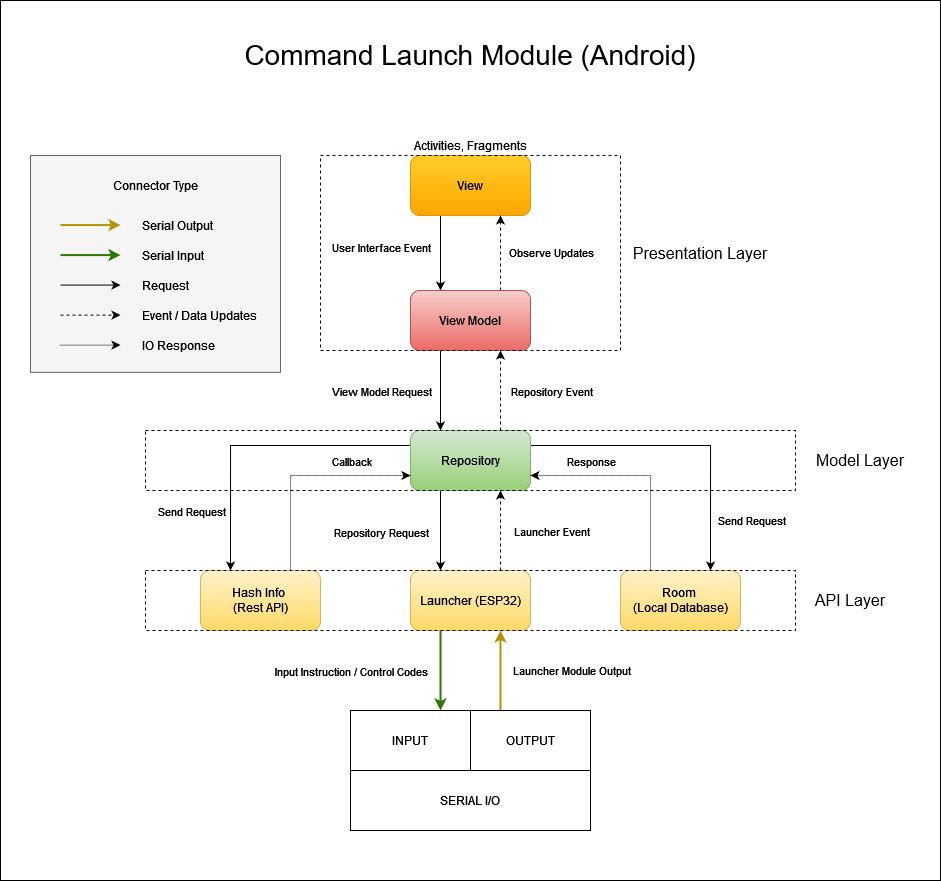
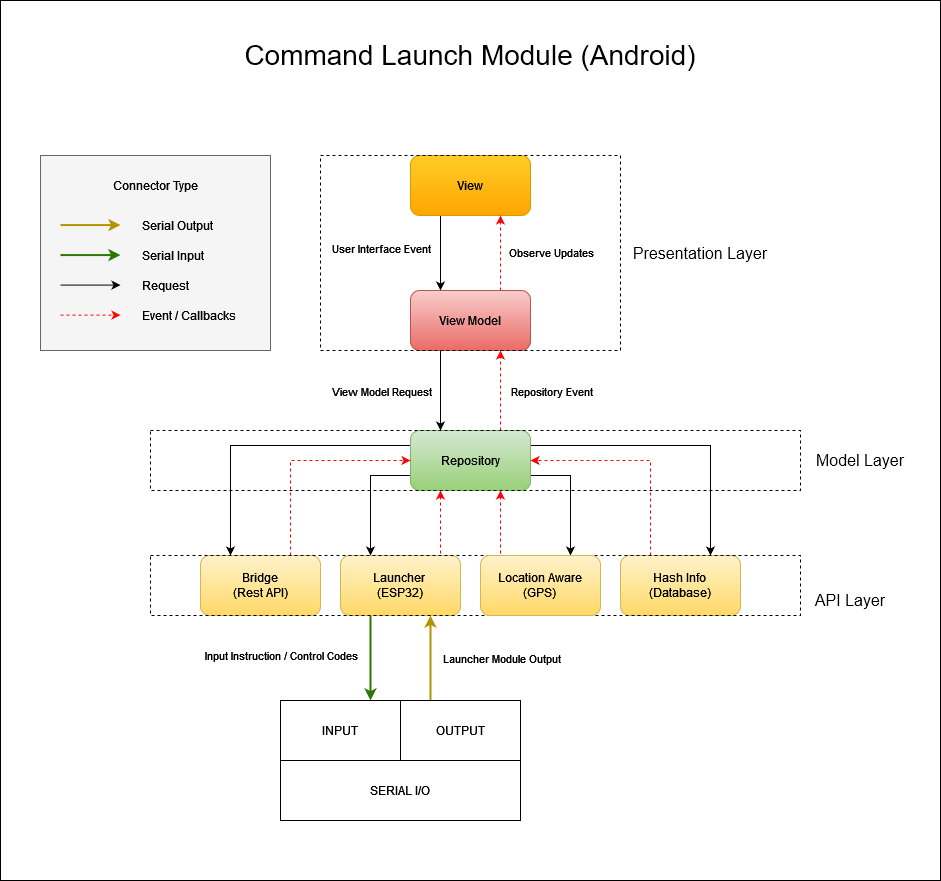
Fixed README and added LICENSE

diff --git a/README.md b/README.md
@@ -1,51 +1,95 @@
 # AWPS (Automatic Wi-Fi Penetration System) Command Launch Module
 
-Automatic WiFi Penetration System, or AWPS is a software designed to penetrate most Wifi enabled devices that is using WPA2. AWPS leverages the formidable capabilities of the ESP32 microcontroller to perform a crucial task in penetrating a Wifi network: capturing critical data elements when a STA initiated authentication with the AP.  Capturing critical data elements, the PMKID and MIC enables us to conduct offline brute force attacks, facilitating the identification of the PSK.
+AWPS is a powerful software crafted for effortlessly penetrating WiFi-enabled devices secured with WPA2. It harnesses the robust capabilities of the ESP32 microcontroller to execute a vital operation in Wi-Fi network penetration. By capturing key data elements like the PMKID and MIC, AWPS allows users to conduct offline brute force attacks. 
 
-## Command Launch Module
-
-The Android device, or any Android-powered device, serves as the central hub for all penetration operations. It orchestrates the Launcher Module through the generation of instruction codes, meticulously selects targets for attack, securely stores hashes in a local database, uses GPS to persists the location of where the hashes was captured and facilitates the transmission of these hashes to a dedicated server. The server, in turn, executes the cracking operations. This comprehensive system offers a human friendly user interface, ensuring a seamless and modern user experience. The Command Launch Module plays a pivotal role by supplying both power and instructions to the Launcher Module, harmonizing their functionalities for efficient and effective penetration testing operations. A 'hashes' is a concise term referring to critical data elements such as PMKID, MIC, and other EAPOL data. These elements play a pivotal role in the process of determining the password associated with the target access point.
-
-The AWPS Launcher Module is an ESP32 microcontroller it functions as the executor of instruction codes issued by the Command Launch Module. Serving as a streamlined input-output system, the Launcher Module receives instruction or control codes, processes them, and executes the corresponding actions. It is important to note that the Launcher Module does not independently validate user input commands. Therefore, the presence of a Command Launch Module becomes crucial for crafting accurate instruction codes, mitigating errors, and ensuring precise execution.
+The Command Launch Module which is an android application act as the brain of the operations, directing the Launcher Module by generating instruction codes, selecting targets, securely storing hashes in a local database, receing GPS coordinates and the transmission of data to a server. The AWPS Launcher Module is an ESP32 which receives command from the Command Launch Module via serial communication, it executes the attack based on the instruction code provided by the Command Launch Module.
 
 For a deeper dive into the Launcher Module's capabilities and further insights, explore the repository here [INSERT REPO LINK].
 
 ## Features
-- **Material User Interface Design Standard** incorporates the Material Design standard, established by Google, to present a contemporary and visually appealing user interface.
-- **Local Database** serves as a temporary repository for PMKID or MIC and EAPOL data intercepted by the Launcher Module. Additionally, it captures pertinent details, including the location and timestamp of the data interception, enriching the stored information with contextual relevance.
-- **Location Aware** leverages GPS functionality to precisely record the location of data interception. This includes capturing longitude, latitude, and corresponding address information, enhancing the precision and contextual awareness of the recorded data interception events.
-- **Hash Transmission** enables the seamless transfer of captured PMKID, MIC, and EAPOL data to a local REST API server. This server, integrated with a database, responsibly stores the transported information. Furthermore, the server meticulously generates a crackable file, compatible with hashcat, to facilitate efficient discovery of the password.
-- **Automatic Attack Mode (Currently under development)** automates the penetration of nearby access points with a while preventing re-attacks on previously targeted access points. Utilizing a database, the system intelligently checks for previous interactions with the access point before initiating an attack. All intercepted and relevant data is meticulously stored in a local database for comprehensive record-keeping.
-- **Manual Attack Mode** is a manual method for penetrating nearby access points, equipped with a capability to prevent re-attacks on previously targeted access points. Leveraging a simple database, the system meticulously examines previous interactions with the access point before initiating an attack. All intercepted and pertinent data is systematically stored in a local database, fostering comprehensive record-keeping.
+- **Local Database** Temporary local database for PMKID or MIC and EAPOL data intercepted by the Launcher Module.
+- **Location Aware** Uses GPS functionality to precisely record the location of data interception.
+- **Hash Transmission** Enables the seamless transfer of captured PMKID, MIC, and EAPOL data to a local REST API server.
+- **Automatic Attack Mode** Automates the penetration of nearby access points while preventing re-attacks on previously targeted access points. All intercepted and relevant data is stored in a local database for comprehensive record-keeping.
+- **Manual Attack Mode** Manual method for penetrating nearby access points. All intercepted and pertinent data is systematically stored in a local database, fostering comprehensive record-keeping.
 
 ## How to Hack or Penetrate the Wi-Fi using AWPS and GPU
 
-<img src="visuals/How-to-hack-the-Wi-Fi.png" alt="How to hack the Wi-Fi">
+<p align="center">
+    <img src="visuals/How-to-hack-the-Wi-Fi.png" alt="How to hack the Wi-Fi">
+</p>
 
-Note: The android device presented in the story is the Command Launch Module, the Launcher Module is attached to the Command Launch Module. The actor in step 3 does not send an HTTP request to the Rest API server. The actor directly configures the GPU via a software by typing in the commands and or configuring the rules for brute force, selecting / managing which GPU to use, etc. The Rest API server is also not available in the public internet as stated in step 2, it is only available as a local Rest API server in the LAN. Its primary role is to transport hash from the AWPS mobile to the server. It does not provide any input data validation nor any best practices when it comes it Rest API security.
+Note: The android device presented in the story is the Command Launch Module, the Launcher Module is attached to the Command Launch Module. The actor in step 3 does not send an HTTP request to the Rest API server. The actor directly configures the GPU via a software by typing in the commands. Also the Rest API is only available as a local Rest API server in the LAN. Its primary role is to receive hash from the AWPS android app and store it in a database.
 
 ## Software Architecture
 
-<img src="visuals/Command-Launch-Module-Software-Architecture.png" alt="Launcher Module Software Architecture">
+<p align="center">
+    <img src="visuals/Command-Launch-Module-Software-Architecture.png" alt="Launcher Module Software Architecture" width="900">
+</p>
 
 ## Software Components
 
 This module consists of 4 main components, the view, view model, repository and the apis. Here is the brief description of each component:
-- **View** is the application's user interface encompasses activities, fragments, and other UI-related code. This is where the user interacts with the system.
-- **View Model** component is the bridge between the view and the repository, undertaking the crucial tasks of validating user input and formatting data to be consume by the view.
-- **Repository** also known as the model or the business part of the application is responsible for processing inputs and outputs to and from the APIs.
-- **APIs** serve as the primary data source for the repository, encompassing functionalities such as controlling the launcher module, executing HTTP POST requests to a server, and persisting data in a database.
+- **View** Application's user interface encompasses activities, fragments, and other UI-related code. This is where the user interacts with the system.
+- **View Model** Connects the view and the repository, it validates user input and also formats data to be consume by the view.
+- **Repository** This is the business part of the application where it is responsible for processing inputs and outputs to and from the APIs.
+- **APIs** Primary data source for the repository, encompassing functionalities such as controlling the launcher module, sending HTTP requests to a server, and persisting data in a local database database.
 
 ## Hardware Components
 
 In this project, three hardware components are employed: an Android device, USB OTG (On The Go), and the ESP32. While the project has been rigorously tested on the ESP32-WROOM-32D variant, it is expected to be compatible with any microcontroller based on the ESP32-WROOM-32 platform.
 
-[INSERT PICTURE OF ESP32 ATTACHED TO ANDROID DEVICE VIA USB OTG]
+<p align="center">
+    <img src="visuals/AWPS-Hardware.png" alt="AWPS Hardware" width="700">
+</p>
 
-- **[1] Android Phone** This project employs an Android device as the command and control interface for the launcher module. The interface features a dedicated application that establishes communication with the launcher module through a USB On-The-Go (OTG) connection. The application is configured with a minimum API level of 24 (Android 7.0) and a maximum API level of 33 (Android 13). It is important to note that the application has been thoroughly tested on physical devices running Android versions 8.1 and 11.
-- **[2] USB OTG (On The Go)** The USB On-The-Go (OTG) interface facilitates both power supply and data transmission, enabling seamless communication between the command and control module and the launcher module. The USB On-The-Go (OTG) cable can be extended to a greater length, enabling the discreet placement of the ESP32 microcontroller inside a pocket or bag.
-- **[3] Micro USB Male to USB Male** The micro USB to USB male cable establishes a connection between the ESP32 device and a USB male port.
-- **[4] ESP32-WROOM-32D** This project leverages the ESP32 microcontroller as the dedicated launcher module. This microcontroller hosts an application that actively monitors incoming instruction codes and subsequently initiates the corresponding armament procedures in accordance with the received instructions. The ESP32 microcontroller is available for purchase at a competitive price point, starting from as low as $3.34 (approximately ₱190). The ESP32 is a compact and portable microcontroller, designed to easily fit within a pocket or bag, thus facilitating the concept of inconspicuous penetration testing.
+- **[1] Android Phone** Any android-powered device that can be use to install a Command Launch Module which is the interface that the user will use to control the operations.
+- **[2] USB OTG (On The Go)** Enables communication between the Command Launch Module and the Launcher Module. It also delivers power from the Command Launch Module to the Launcher Module.
+- **[3] Micro USB Male to USB Male** Establishes connection between the ESP32 device and a USB male port.
+- **[4] ESP32-WROOM-32D** This is where the Launcher Module Software is installed and it is use to execute attacks by receiving commands from the Command Launch Module.
+
+## Automatic Attack Finite State Diagram
+
+<p align="center">
+    <img src="visuals/Automatic-Attack-Finite-State-Diagram.png">
+</p>
+
+The finite state diagram illustrates the automated process of Wi-Fi penetration through a sequence of states in an automatic attack.
+
+- **State: X(Stopped)**
+    - **Description:** The system enters stopped state and does not perform any penetration operation unless the user presses the start button
+- **State: A (Started)**
+    - **Description:** The system enters started state because the user presses the start button, the Launcher Module is ready to receive commands
+    - **Transition**
+        - **Trigger:** The system receives an instruction
+        - **Outcome:** Transistion to state B occurs unless the user presses the stop button
+- **State: B (Instruction Issued)**
+    - **Description:** The system enters instruction issued state, it is now ready to receive control code armament activation
+    - **Transition:**
+        - **Trigger:** The system has finished scanning nearby access points
+        - **Outcome:** Transition to State C occurs unless the user presses the stop button
+- **State: C (Finish Scan)**
+    - **Description:** The system enters finished scan state, it is now ready to determine if the target access point is found or not
+    - **Transition:**
+        - **Trigger:** The system has finished determining if the target access point is found
+        - **Outcome:** Transition to State D or State E occurs unless the target access point is found
+- **State: D (Target Not Found)**
+    - **Description:** The system transistions from C to D because it did not found the target access point
+    - **Transition:**
+        - **Trigger:** The system did not found the target access point
+        - **Outcome:** Transistion to State B occurs unless the user presses the stop button, it transistions to State B to issue a scan instruction where it scans nearby access points for potential targets 
+- **State: E (Main Task Created or Attack Target)**
+    - **Description:** The system transistions from C to E because it found the access point and thus it launches the attack
+    - **Transition:** The system has finished or stopped the main task
+        - **Trigger:** Transition is triggered under three conditions: when the allocated time is exhausted, when the user presses the stop button, or when the attack is successful
+        - **Outcome:** Transition to State G occurs unless the user stops the attack or the allocated time has exhausted
+- **State: F (Failed Attack)**
+    - **Description:** The system enters failed state when the attack is terminated either by user pressing the stop button or when the allocated time has exhausted.
+    - **Transision:** The Launcher Module is programmed to restart if an attack fails and thus will always transistion to State A
+- **State: G (Successful Attack)**
+    - **Description:** The system enters success state because it was able to penetrate the target and was able to intercept important data
+    - **Transistion:** The system proceeds to State B to issue a scan instruction where it scans nearby access points for potential targets 
+
 
 ## DISCLAIMER
 
